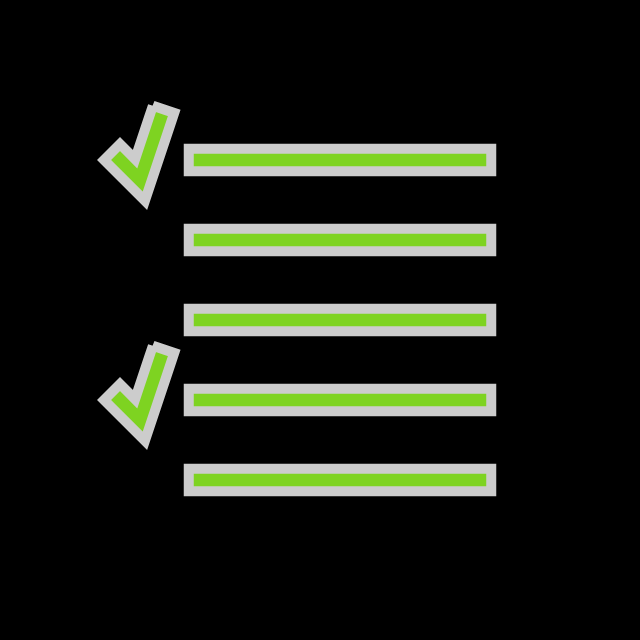
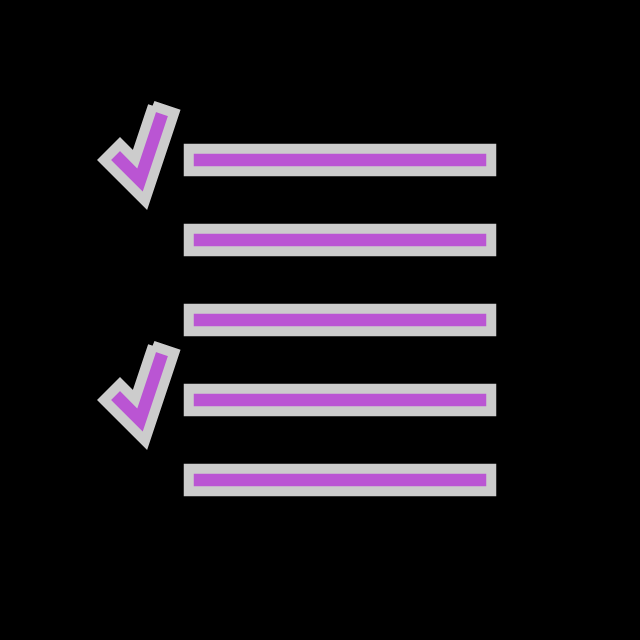
commit 7

diff --git a/app/Models/List.js b/app/Models/List.js
@@ -11,7 +11,7 @@ export default class List {
   get Template() {
     return `
     <div class="col-12 col-lg-3">
-    <div class="card mt-3 card-background border-primary">
+    <div class="card mt-3 card-background card-border">
       <div class="card-body">
         <h5 class="card-title">${this.title}
          <span onclick="app.listController.deleteListConfirm('${
@@ -24,7 +24,7 @@ export default class List {
       placeholder="List Item..."
       required
       />
-      <button class="btn btn-success" type="submit">Add</button>
+      <button class="btn btn-secondary" type="submit">Add</button>
       </form>
       <ul class="card-text mt-3">
             ${this.getListItemTemplate()}

diff --git a/assets/style.css b/assets/style.css
@@ -13,7 +13,7 @@ html, body {
 }
 
 .card-background {
-    background: greenyellow;
+    background: mediumorchid;
 }
 
 .user-select {
@@ -22,4 +22,9 @@ html, body {
 
 .img-pointer {
     cursor: pointer;
+}
+
+.card-border {
+    border-color: #DCDCDC;
+    border-width: thick;
 }
